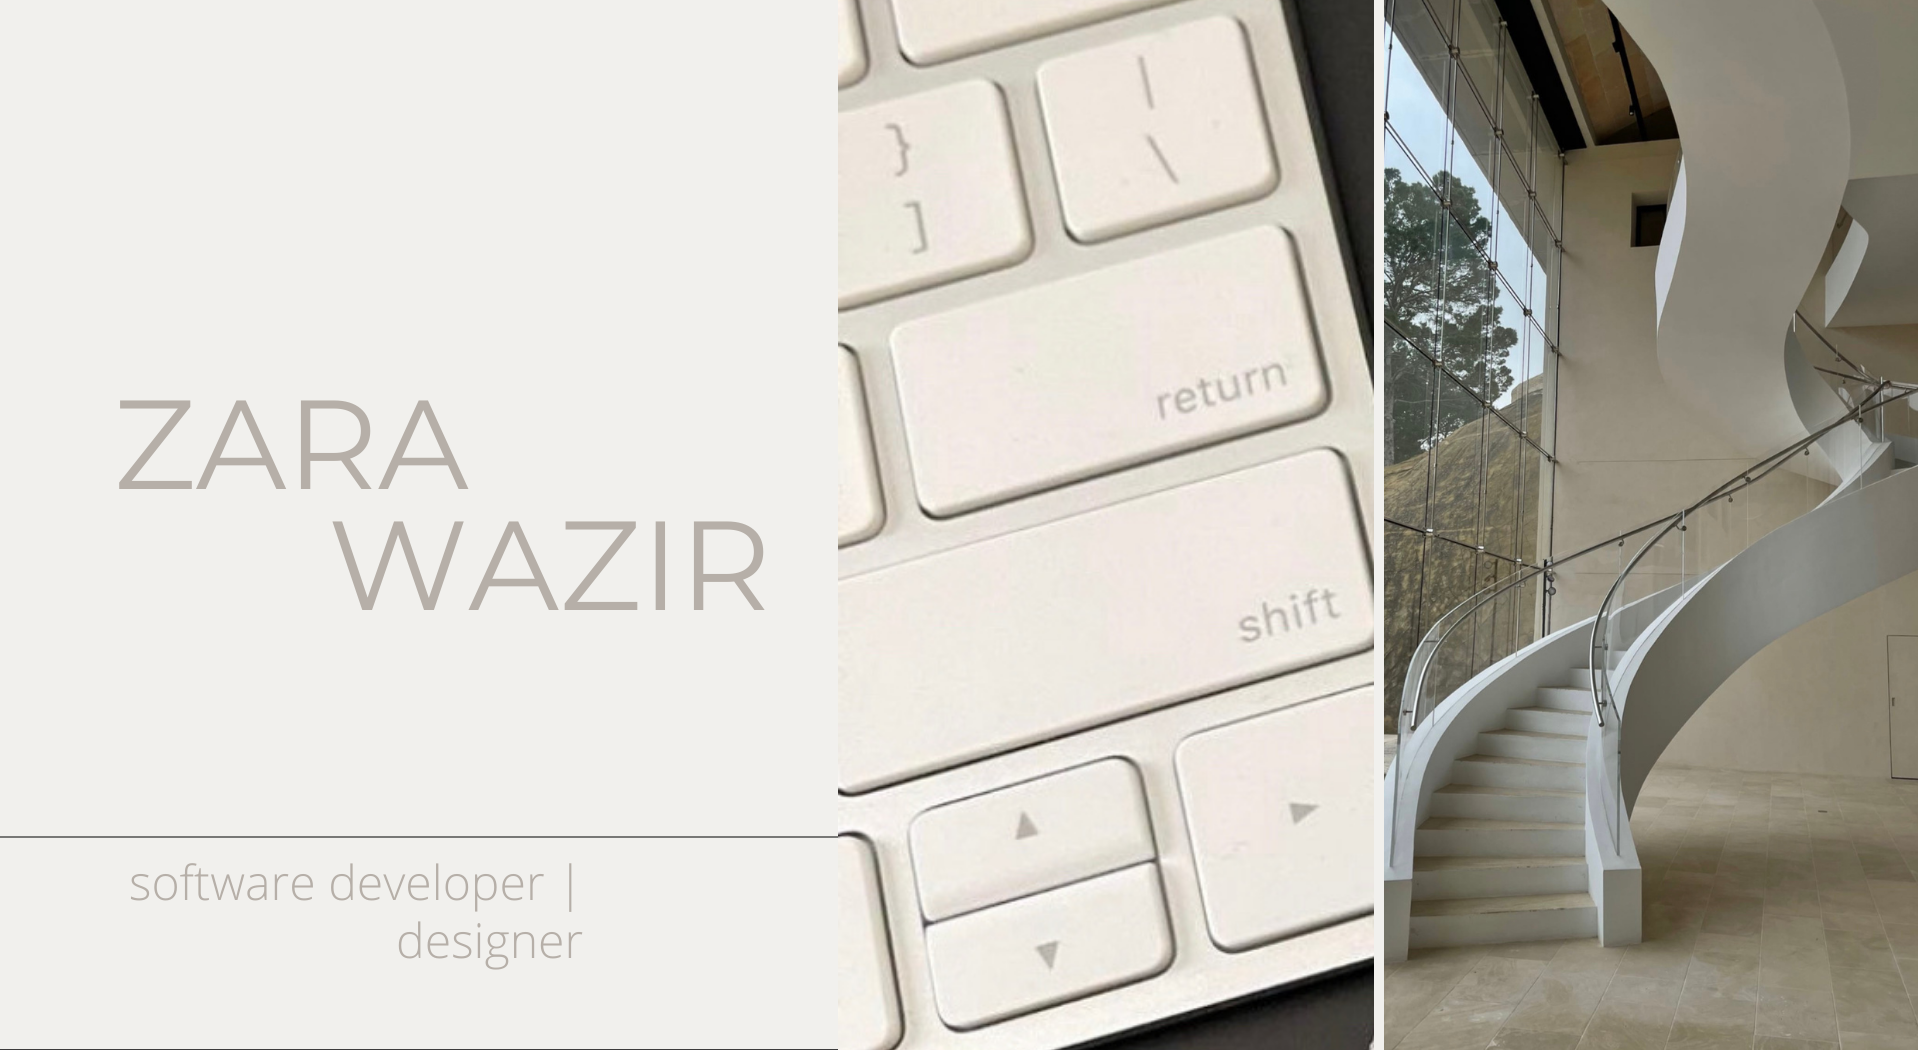
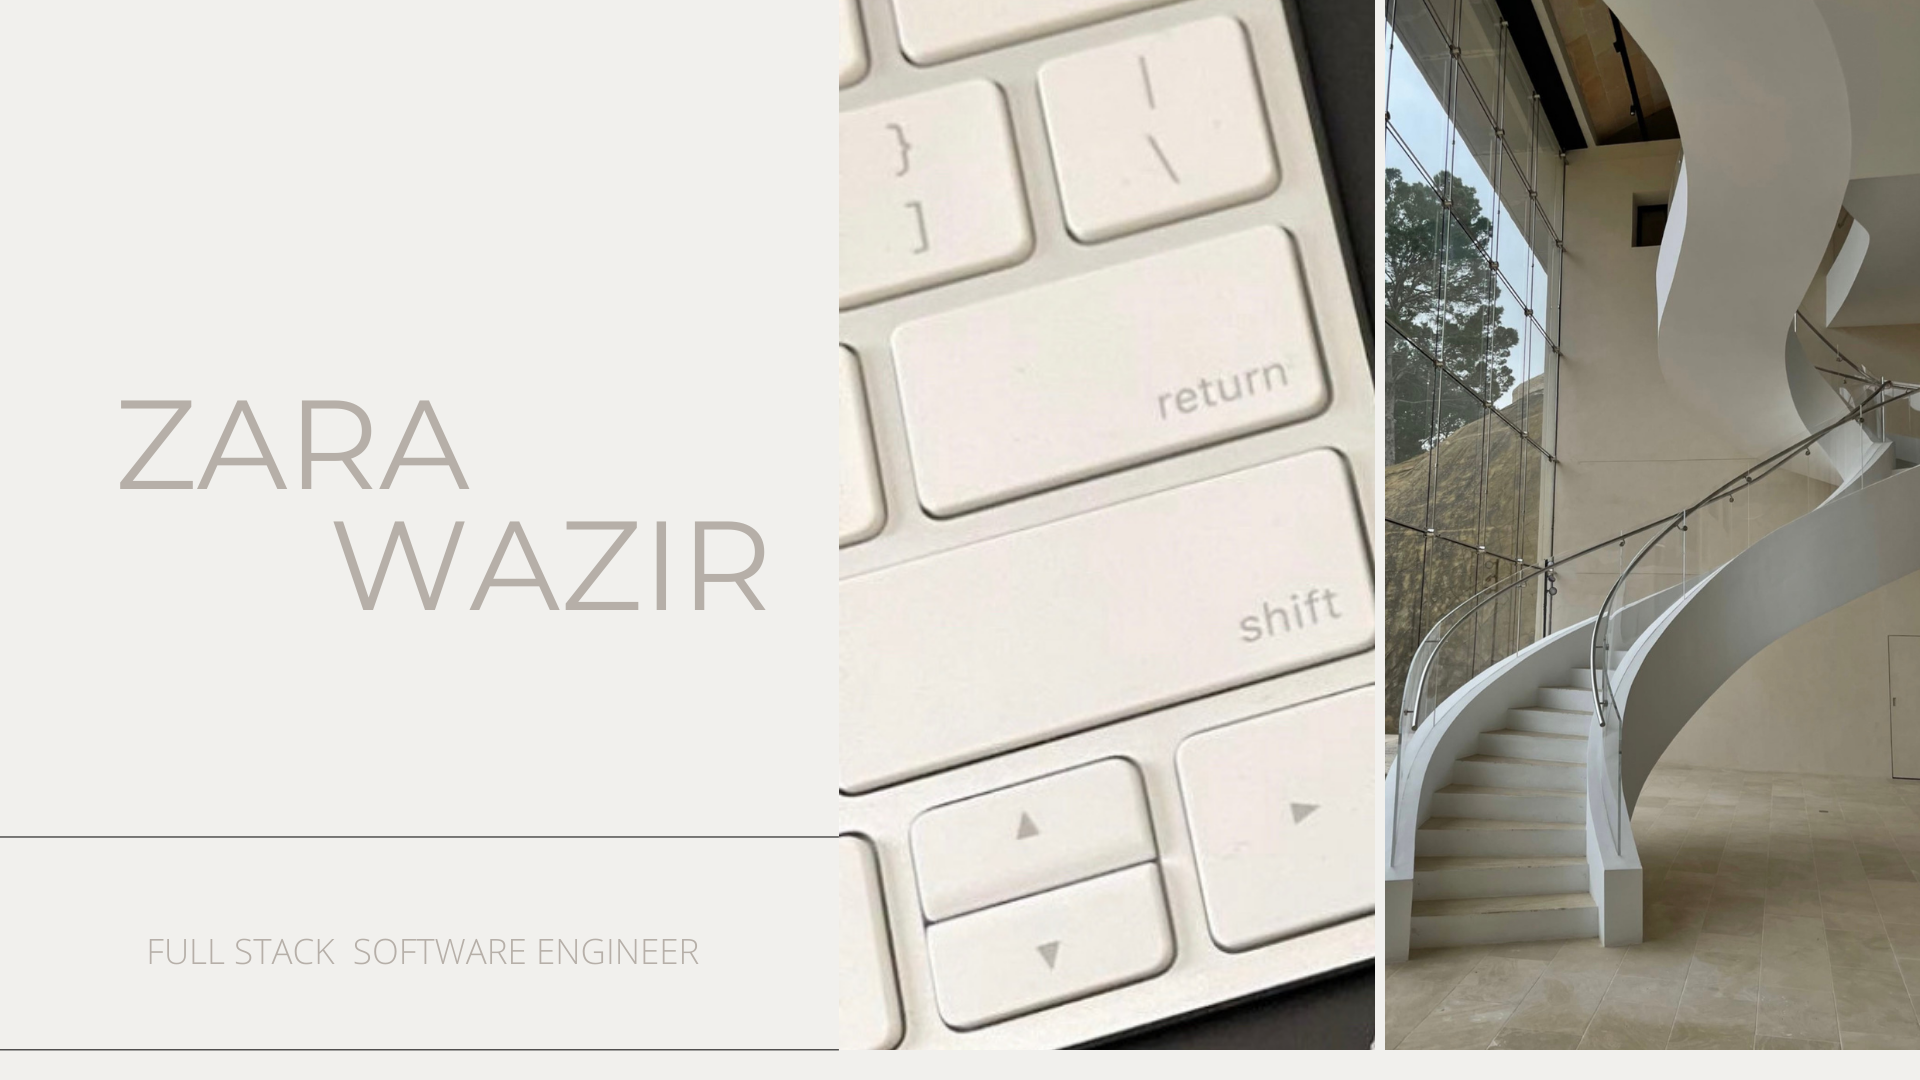
revised my about me and updated resume link

diff --git a/index.html b/index.html
@@ -88,17 +88,17 @@
 				<div class="home__content grid">
 				</div>
 				<div class="home__data">
-					<img src="assets/img/zw.png" alt="" class="home__img">
+					<img src="assets/img/zw.jpg" alt="" class="home__img">
 					<h1 class="home__title">Hello.</h1>
 					<h3 class="home__subtitle">I'm Zara</h3>
-					<p class="home__description">A software developer and visual creative from Los Angeles, CA. </p>
+					<p class="home__description">A full stack software engineer and creative from Los Angeles, CA. </p>
 					<a href="#contact" class="contact-btn-link">
-						Contact Me 
+						Contact Me
 						<i class="uil uil-arrow-right button__icon"></i>
 					</a>
-					<a href="https://docs.google.com/document/d/1O4CXvCYCmw8gj4f4keh7XNuHsCaDlIm1-J4uMjoQ_Gg/edit?usp=sharing"
+					<a href="https://docs.google.com/document/d/1dBNSrMmhFsSyOpEwMmmxbTjptZj0i_Wqat9gixYYPEk/edit?usp=sharing"
 						class="resume" target="_blank">Resume
-					
+
 						<i class="uil uil-arrow-right button__icon"></i>
 					</a>
 				</div>
@@ -114,21 +114,18 @@
 			<h2 class="section__title">About Me</h2>
 			<span class="section__subtitle"></span>
 			<div class="about__container container grid">
-				<img src="assets/img/about2.png" alt="" class="about__img">
+				<img src="assets/img/about3.png" alt="" class="about__img">
 				<div class="about__data">
-					<div class="about__description"> I'm deeply passionate about creating exquisite and functional
-						digital experiences, merging my design expertise with
-						technical skills to craft visually stunning user interfaces and seamless user experiences. <br>
+					<div class="about__description"> Hold the vision, trust the process.
+					 I'm a full stack software engineer, born and raised in Southern California. I'm
+					passionate about design, enjoy problem-solving, and believe in a growth mindset. I also love collaborating with others,
+					working in teams, and making a positive impact. I have a background in fashion design and professional experience as a
+					content developer.<br>
 						<br>
-						As a developer, I am eager to continue learning and growing in this field, pushing the
+						As an engineer, I am eager to continue learning and growing in this field, pushing the
 						boundaries of what is possible
-						and delivering exceptional results for clients and users.<br>
+						and delivering exceptional results. <br>
 						<br>
-						<!-- In my spare time, I find joy in cooking, indulging in K-dramas, tidying up spaces, and fostering a modern minimal
-				lifestyle. I channel this love for simplicity and aesthetics into my web design, where a clean and inviting aesthetic is
-				always a nice touch.
-				<br>
-				 -->
 						<p>
 						</p>
 					</div>
@@ -366,10 +363,9 @@
 			<div class="footer__container container grid">
 				<div>
 					<h1 class="footer__title">Zara</h1>
-					<span class="footer__subtitle">Frontend developer</span>
 				</div>
 
-		<!-- <ul class="footer__links">
+				<!-- <ul class="footer__links">
 			<li>
 				<a href="https://docs.google.com/document/d/1O4CXvCYCmw8gj4f4keh7XNuHsCaDlIm1-J4uMjoQ_Gg/edit?usp=sharing"
 					class="footer__links resume" target="_blank">Resume
@@ -378,7 +374,7 @@
 		
 		</ul> -->
 
-		
+
 
 				<div class="footer__social">
 
